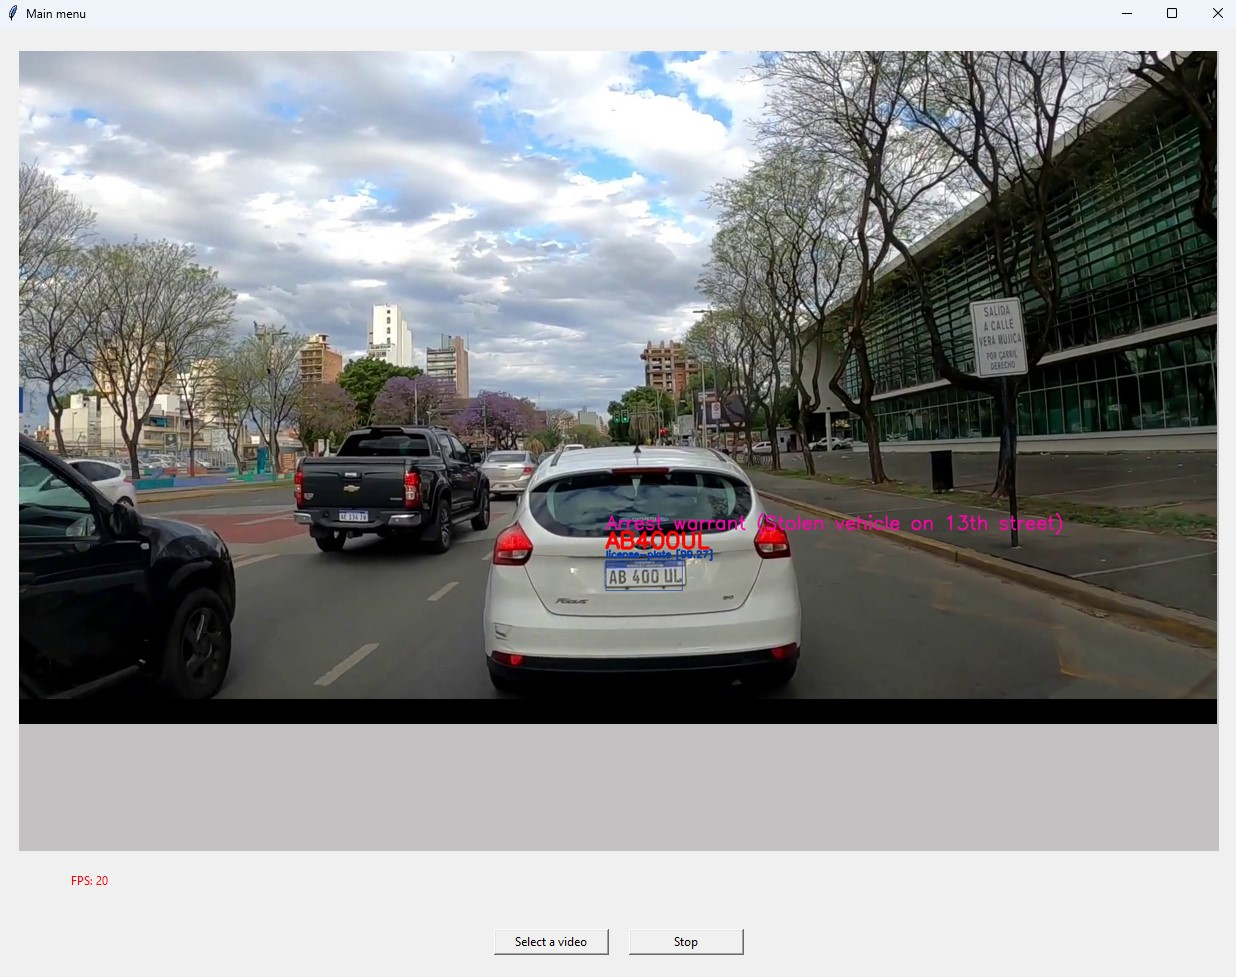
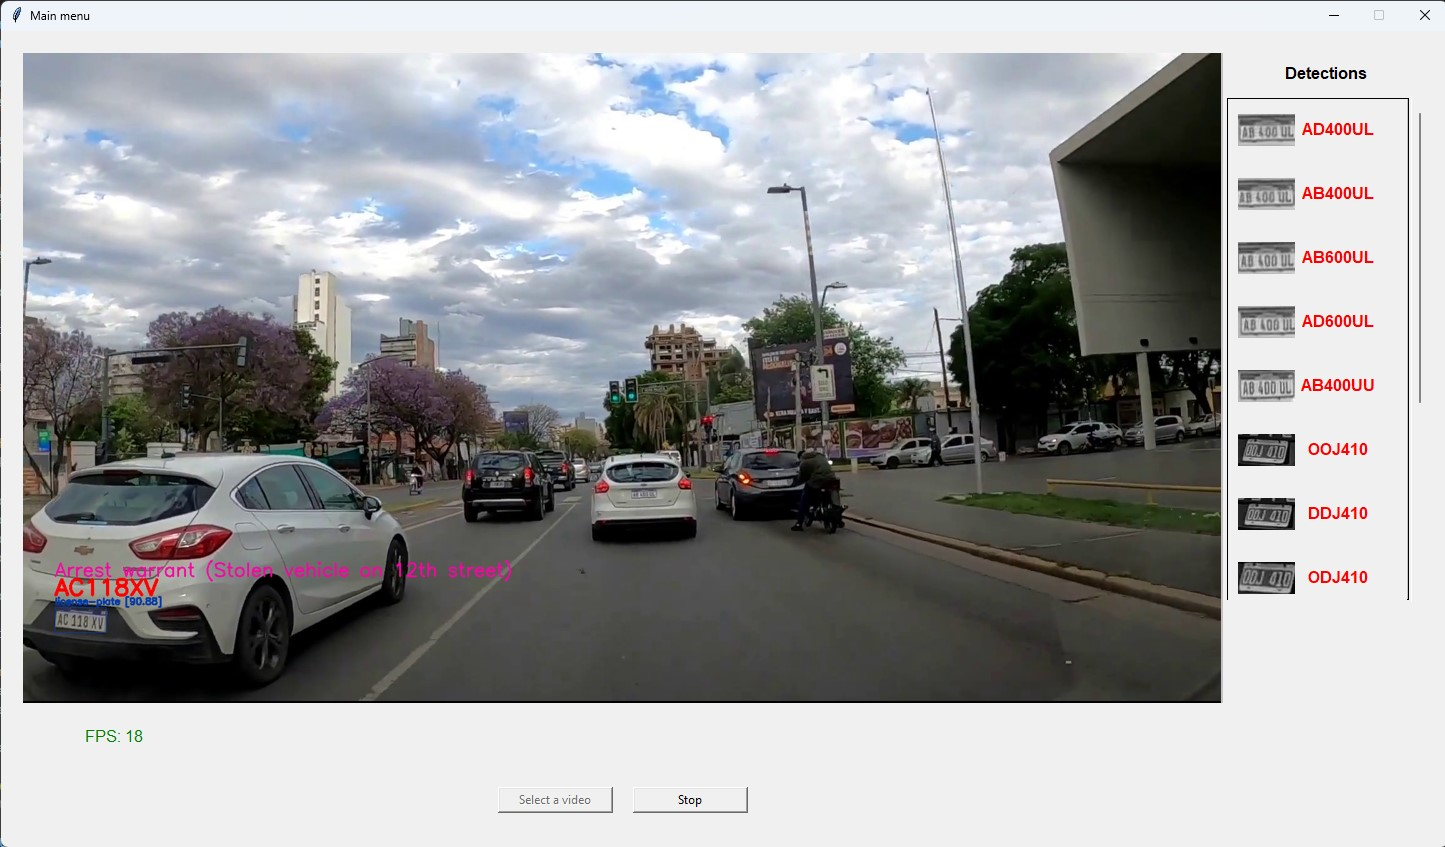
fixed issue when stop the video

diff --git a/ui/license_plate_scroll_list.py b/ui/license_plate_scroll_list.py
@@ -6,7 +6,10 @@ class Scroll(tk.Frame):
     def __init__(self, parent):
         super().__init__(parent)
         
-        self.canvas = tk.Canvas(self, bg="#c3c1c1", width=180, height=500)
+        self.title_label = tk.Label(self, text="Detections", font=("Arial", 12, "bold"))
+        self.title_label.pack(side="top", pady=10)
+        
+        self.canvas = tk.Canvas(self, bg="#c3c1c1", width=180, height=500, bd=1, relief="solid")        
         self.scrollable_frame = ttk.Frame(self.canvas)
         
         self.scrollbar = ttk.Scrollbar(self, orient="vertical", command=self.canvas.yview)
@@ -16,19 +19,21 @@ class Scroll(tk.Frame):
         self.canvas.pack(side="left", fill="both", expand=True)
         
         self.scrollable_frame.bind("<Configure>",lambda e: self.canvas.configure(scrollregion=self.canvas.bbox("all")))
-
-        self.canvas.create_window((0, 0), window=self.scrollable_frame, anchor="nw")
         
+        self.canvas.create_window((0, 0), window=self.scrollable_frame, anchor="nw")
+                        
         self.items = []
 
     def add_item(self, crop, plate):
         "Add a item to list"
         
+        self.createFrameIfDoesntExists()
+        
         img = Image.fromarray(crop)
         img.thumbnail((150, 50))
         img_tk = ImageTk.PhotoImage(image=img)
         
-        item_canvas = tk.Canvas(self.scrollable_frame, width=180, height=50)
+        item_canvas = tk.Canvas(self.scrollable_frame, width=175, height=50)
         item_canvas.create_image(10, 10, anchor="nw", image=img_tk)        
         item_canvas.image = img_tk
         item_canvas.pack(fill="x", pady=5)
@@ -45,7 +50,7 @@ class Scroll(tk.Frame):
             
     def clear(self):
         "Delete all items of list"
-        
+                
         for item_canvas in self.items:
             item_canvas.delete("all")
             item_canvas.pack_forget()
@@ -55,4 +60,13 @@ class Scroll(tk.Frame):
         # Restart the scrollBar
         self.canvas.configure(scrollregion=self.canvas.bbox("all"))
         self.scrollbar.pack_forget()  # Hide the scrollbar if it doenst have items
-                
+        
+        if not self.scrollable_frame is None:
+            self.scrollable_frame.destroy()
+            self.scrollable_frame = None
+        
+    def createFrameIfDoesntExists(self):        
+        if self.scrollable_frame is None:
+            self.scrollable_frame = ttk.Frame(self.canvas)
+            self.scrollable_frame.bind("<Configure>",lambda e: self.canvas.configure(scrollregion=self.canvas.bbox("all")))        
+            self.canvas.create_window((0, 0), window=self.scrollable_frame, anchor="nw")

diff --git a/ui/video_box.py b/ui/video_box.py
@@ -19,8 +19,8 @@ class Video:
             self.video_streaming_box.image = img_tk
             
     def clear(self):        
-        self.video_streaming_box .delete("all")
-        self.video_streaming_box .image = None
+        self.video_streaming_box.delete("all")
+        self.video_streaming_box.image = None
         self.set_status_video_box("Clean")
         
     def set_status_video_box(self, status):        
